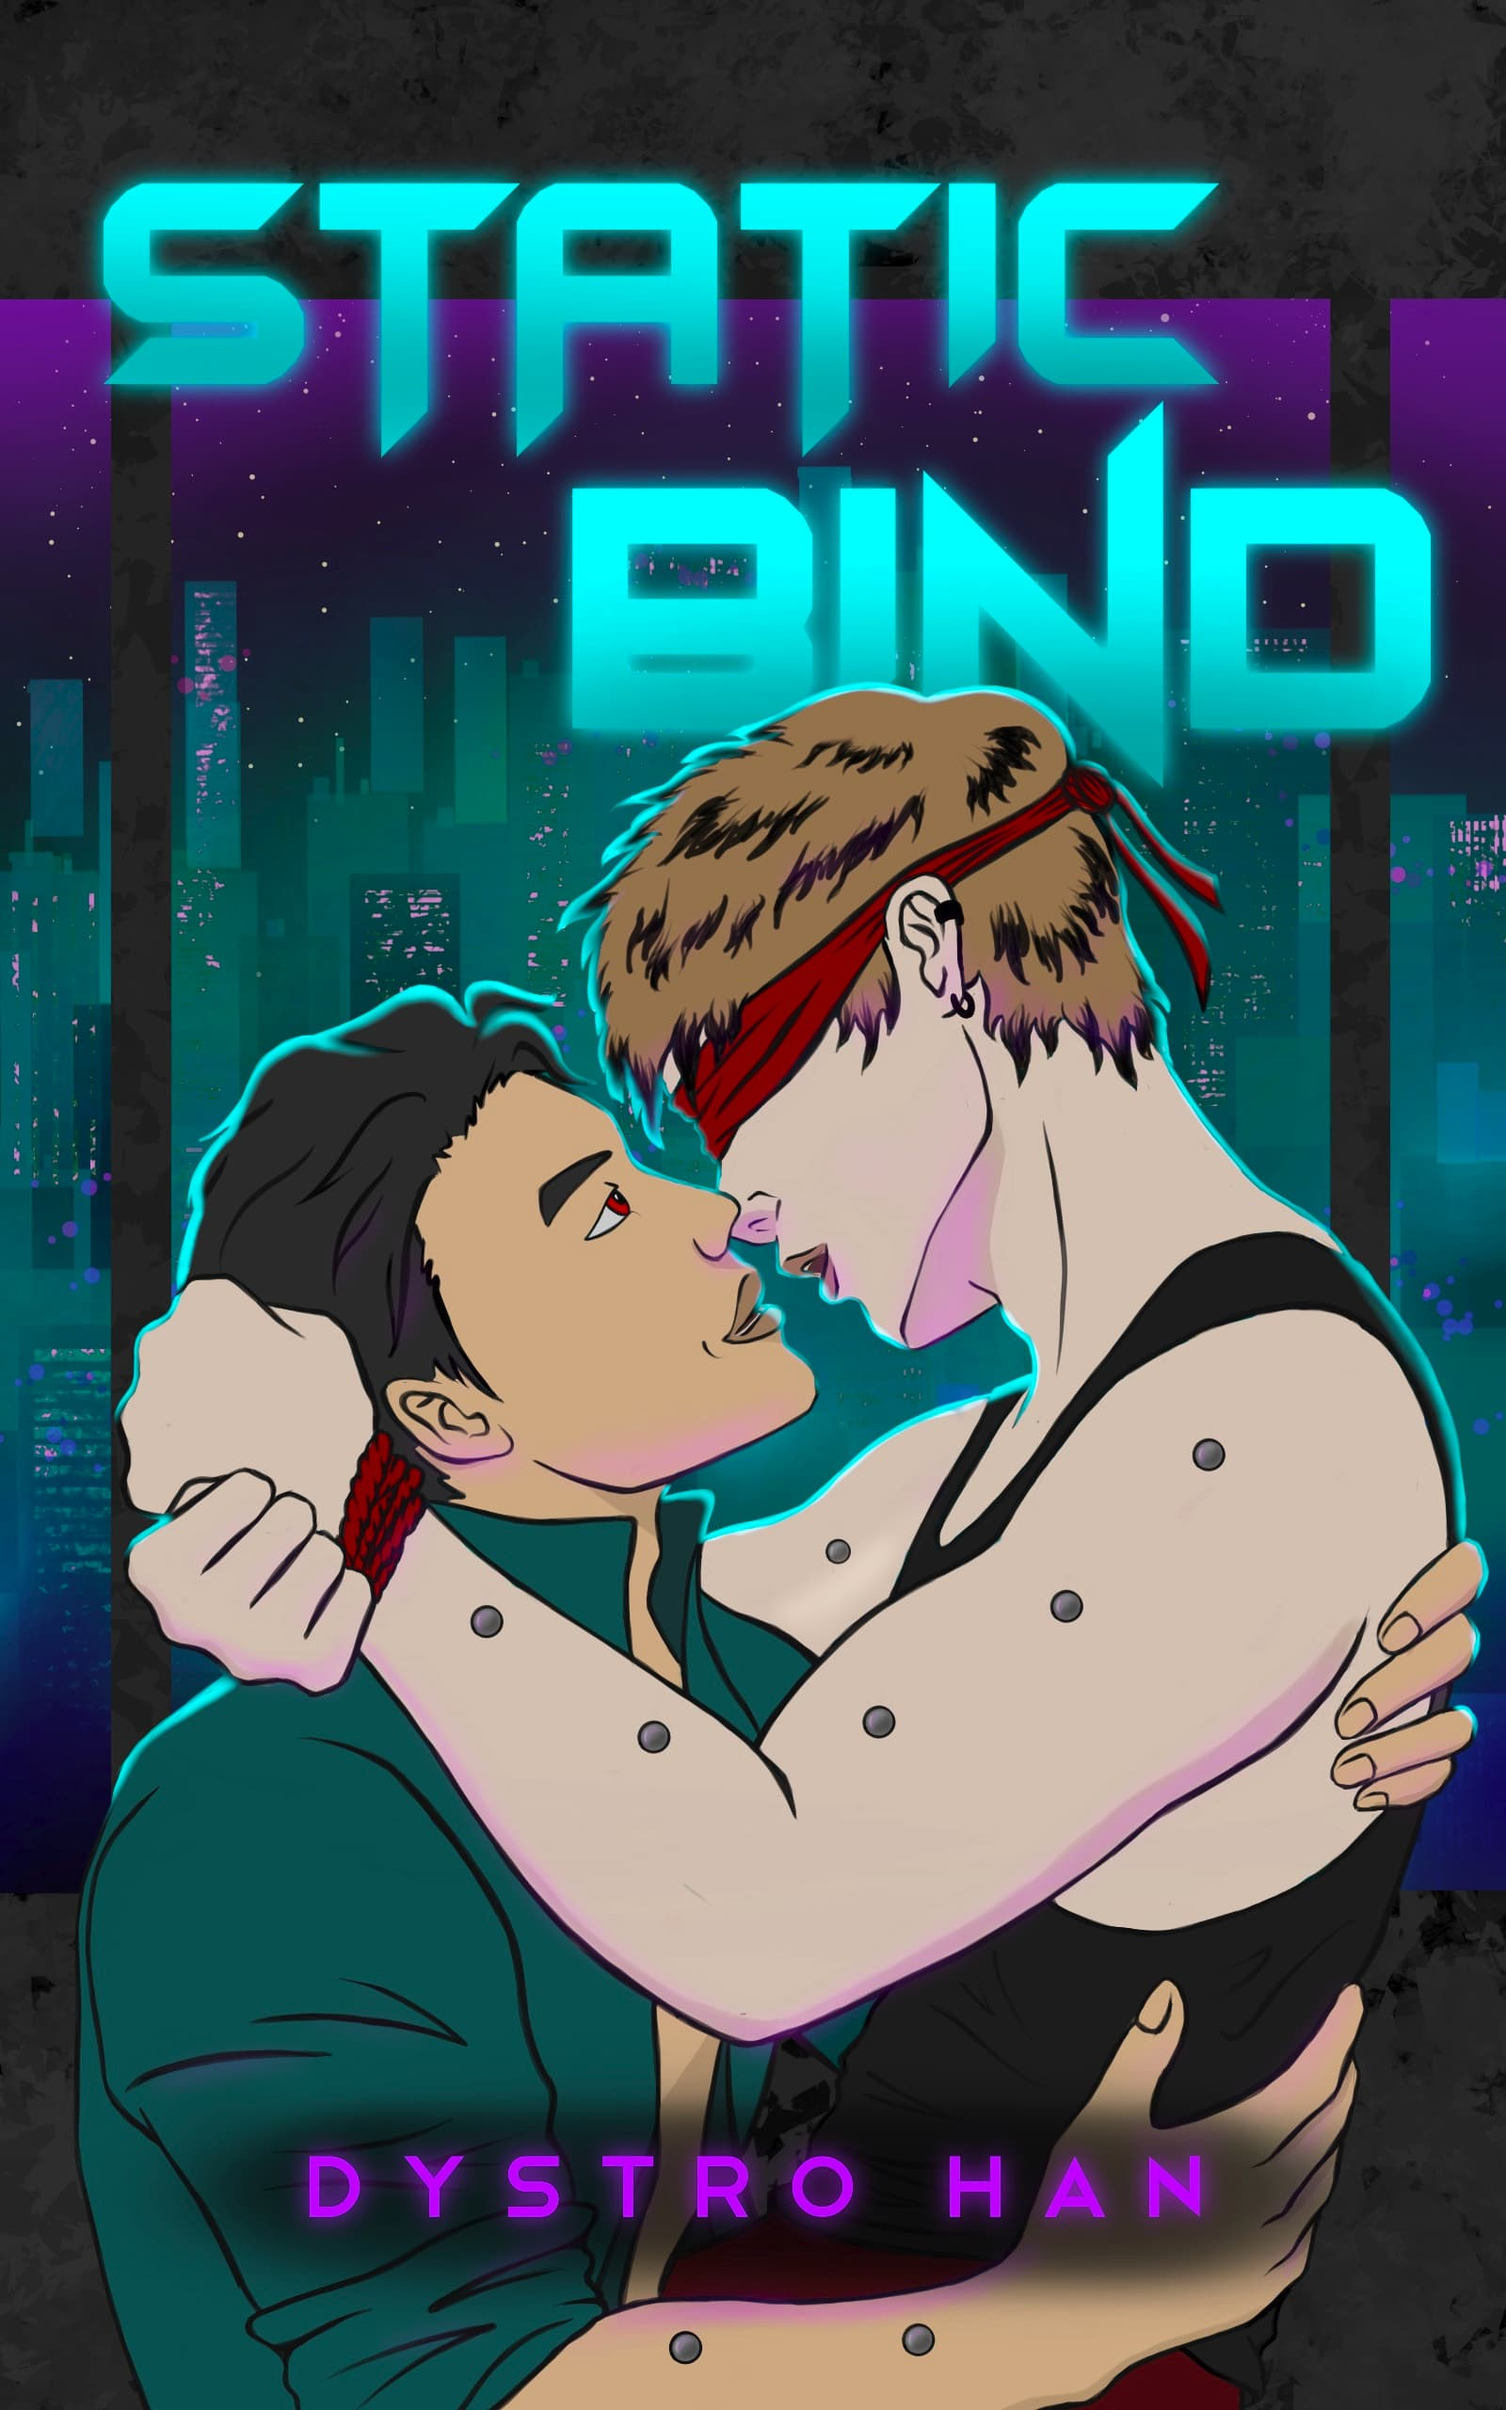
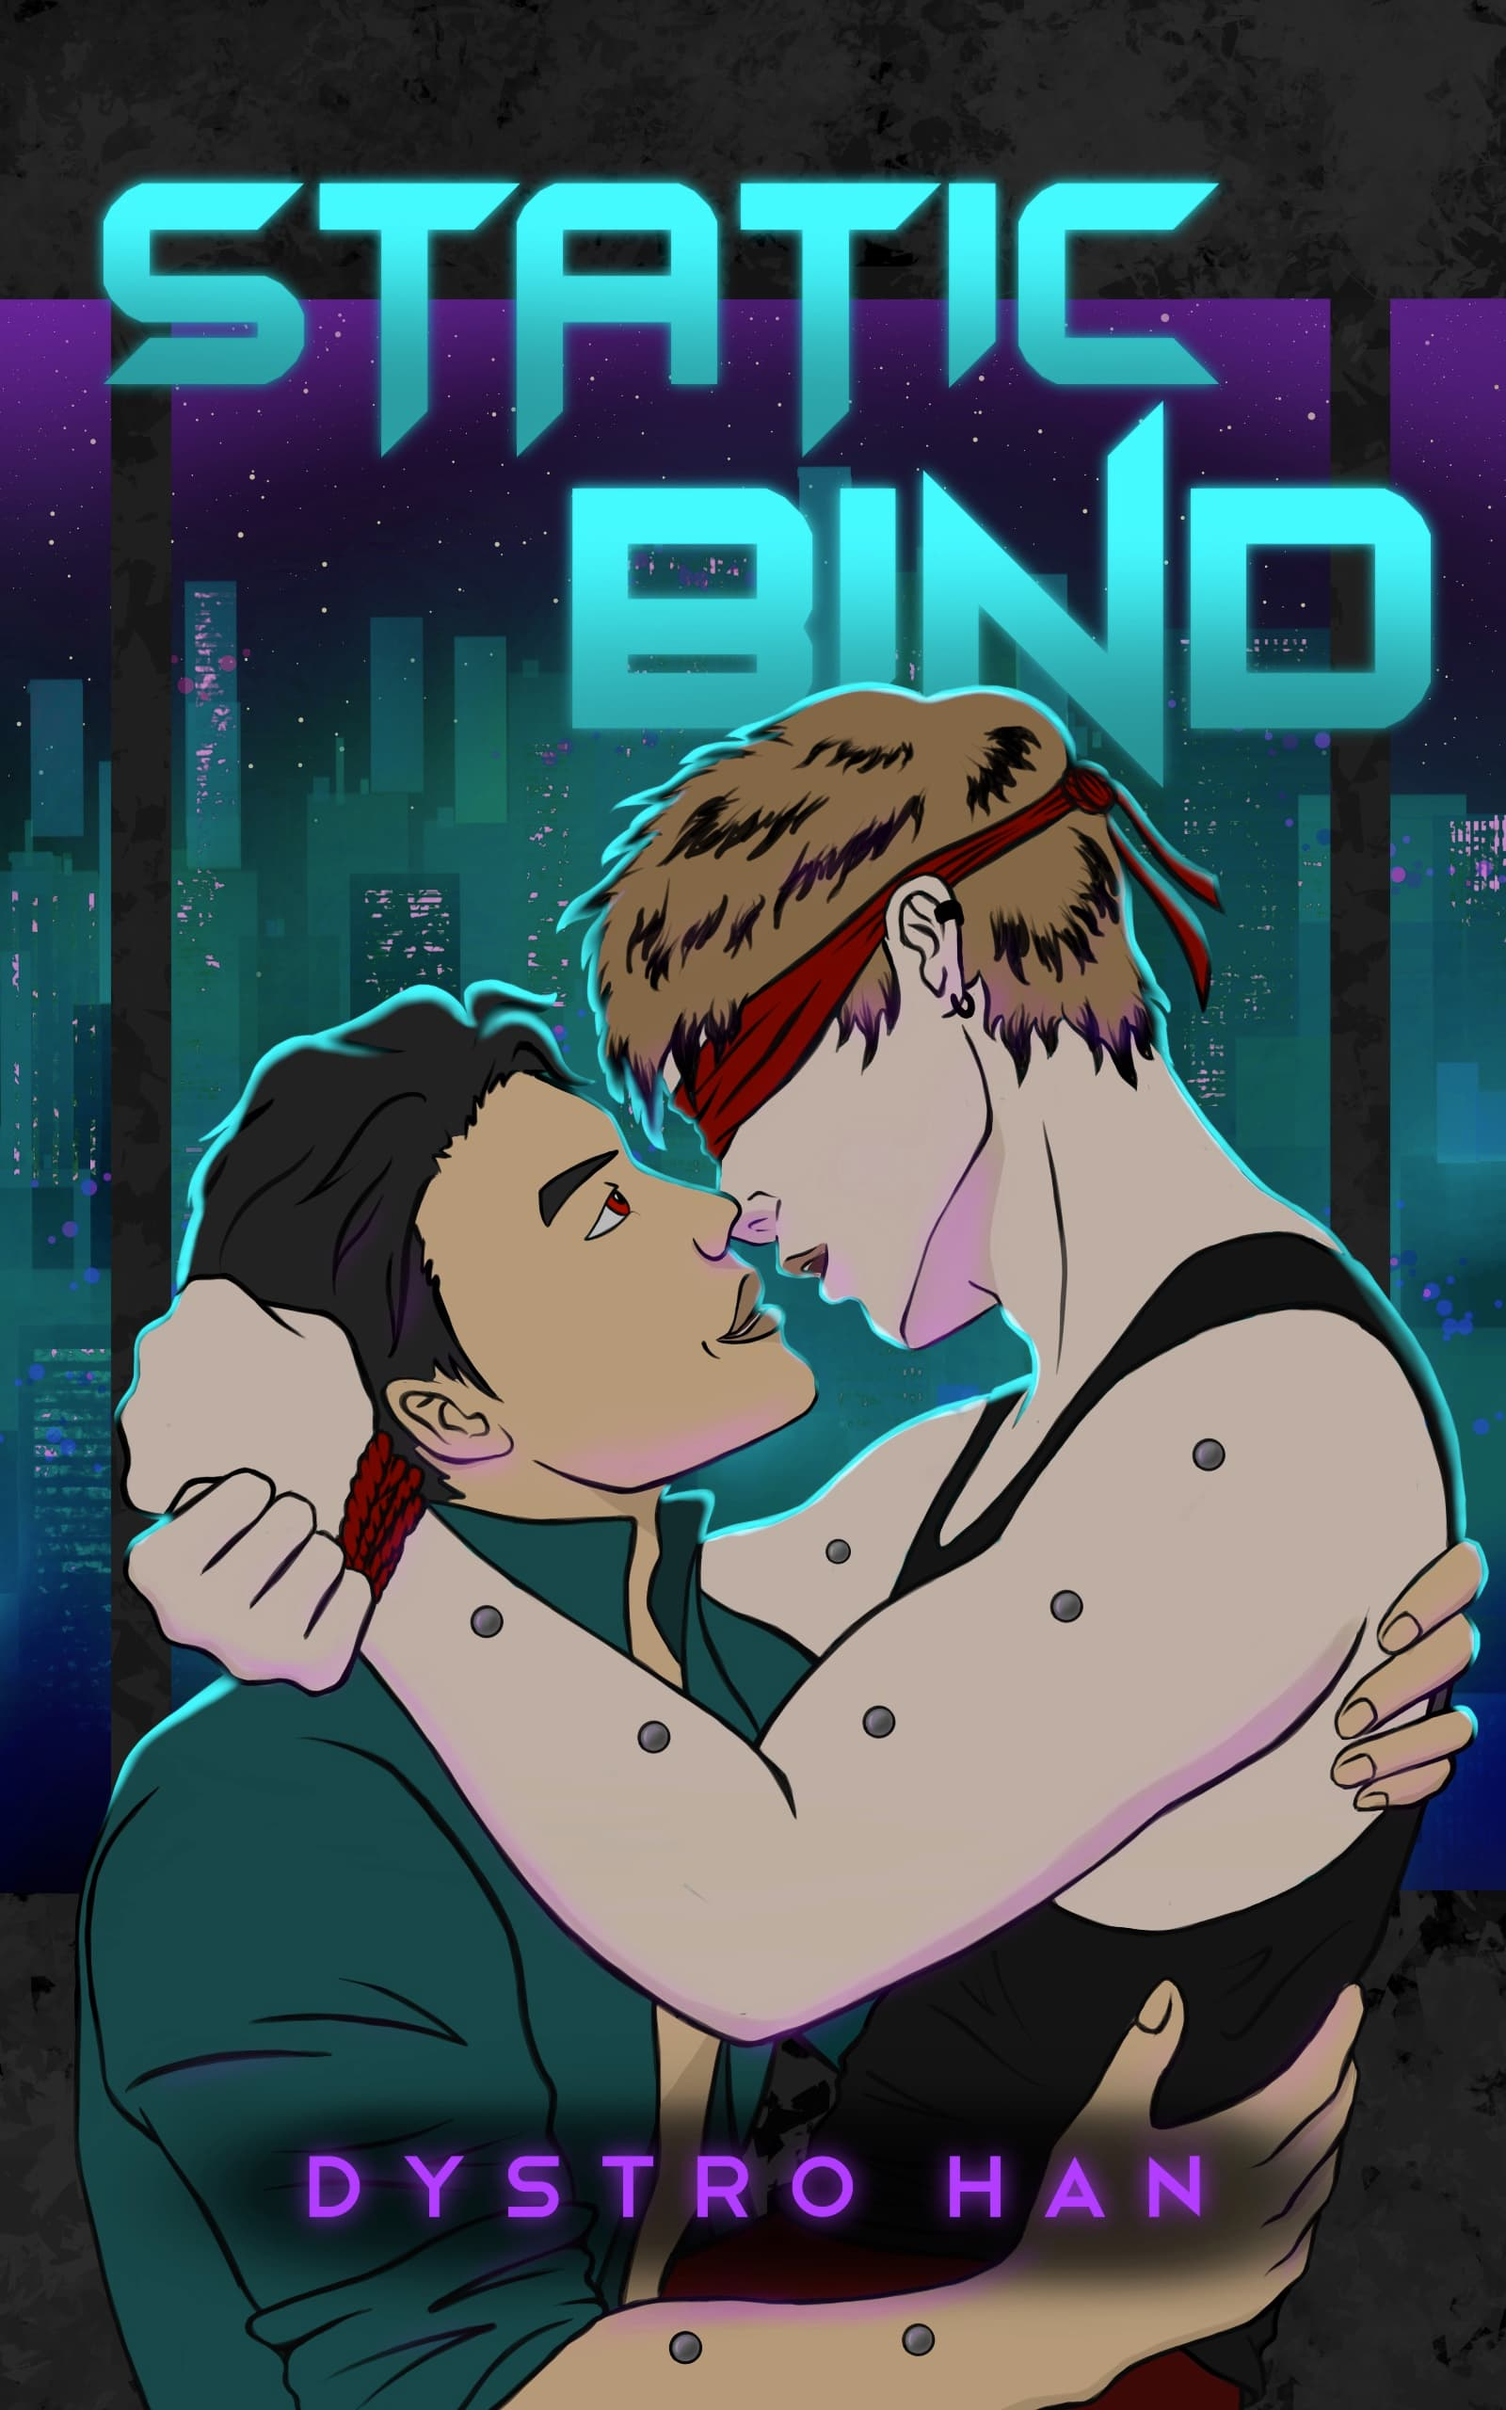
update cover image, fix description text

diff --git a/app/lib/books.ts b/app/lib/books.ts
@@ -74,8 +74,7 @@ export const BOOKS: Book[] = [
     releaseDate: "September 14, 2026",
     blurb: "Two dangerous mercenaries on the run make a sexy wager on an impromptu side job and avoid having revelations about their hopeless emotional entanglement with each other. Explore the world of Hack & Harrow with this standalone short.",
     description:
-      "**Two fugitive mercenaries. One steamy wager. Enough denial to reduce competent killers to obsessive idiots.** \n\n It's been a long day. Tiernan just wants to settle in for the night, maybe have an emotionally detached bang with his unlikely, smokin' hot ally, and take a long, luxurious bath… not that he has access to a bathtub. So of course Danil has to drag things out by proposing this dumb kinky bet that pits them against each other in an unscheduled side heist. That smartass enigma of a hitman knows Tiernan can't turn down a little competition, no matter how tired he is.\n\n Danil has always been a makeout guy. Sure, sex is great, but there's just something electrifying about the ridiculous act of mashing your face into someone else's. Just his luck that his unbelievably sexy nemesis-with-benefits is all but allergic to kissing. Their time on the run together has been a thrill -- Tiernan is lethally adept, holds his own against Danil's nonstop heckling, and is absolutely wild in bed. If only there were about five hundred times more kissing, then this would be the perfect temporary arrangement. He couldn't possibly want any more out of this, right? \n\n Winner Takes Loser is a high-heat, emotionally messy, and danger-packed bonus story from an multi-part action-romance series set in dystopian cyberpunk Boston, starring these two violently unhinged men who would rather be tied up than face their feelings. \n\n\n ISBN-13: 979-8-952631-00-7 (ebook)",
-    // isbn13: "SEO_PLACEHOLDER_ISBN13_the-datasource",
+      "**Two fugitive mercenaries. One steamy wager. Enough denial to reduce competent killers to obsessive idiots.** \n\n It's been a long day. Tiernan just wants to settle in for the night, maybe have an emotionally detached bang with his unlikely, smokin' hot ally, and take a long, luxurious bath… not that he has access to a bathtub. So of course Danil has to drag things out by proposing this dumb kinky bet that pits them against each other in an unscheduled side heist. That smartass enigma of a hitman knows Tiernan can't turn down a little competition, no matter how tired he is.\n\n Danil has always been a makeout guy. Sure, sex is great, but there's just something electrifying about the ridiculous act of mashing your face into someone else's. Just his luck that his unbelievably sexy nemesis-with-benefits is all but allergic to kissing. Their time on the run together has been a thrill -- Tiernan is lethally adept, holds his own against Danil's nonstop heckling, and is absolutely wild in bed. If only there were about five hundred times more kissing, then this would be the perfect temporary arrangement. He couldn't possibly want any more out of this, right? \n\n Static Bind is a high-heat, emotionally messy, and danger-packed bonus story from an multi-part action-romance series set in dystopian cyberpunk Boston, starring these two violently unhinged men who would rather be tied up than face their feelings. \n\n\n ISBN-13: 979-8-952631-00-7 (ebook)",
     isbn13: "979-8-952631-00-7 (ebook)",
     coverImage: "/img/books/hack-and-harrow/static-bind_cover_art.jpg",
     coverImageThumb: "/img/books/hack-and-harrow/static-bind_cover_art_small.webp",
